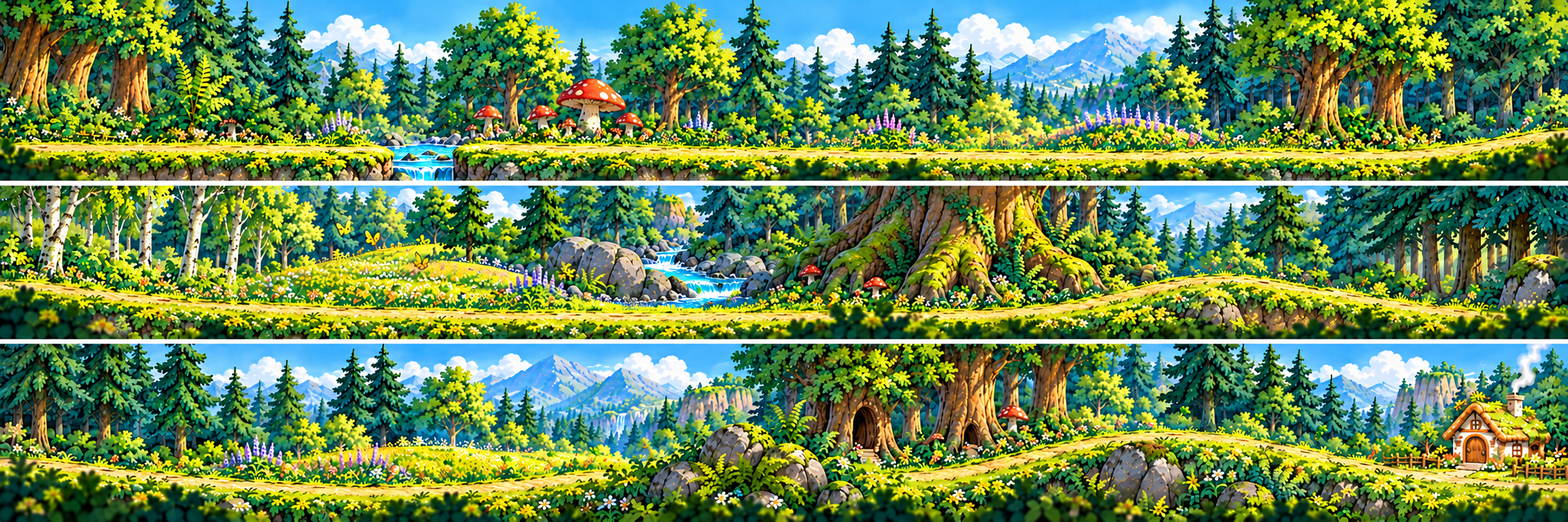
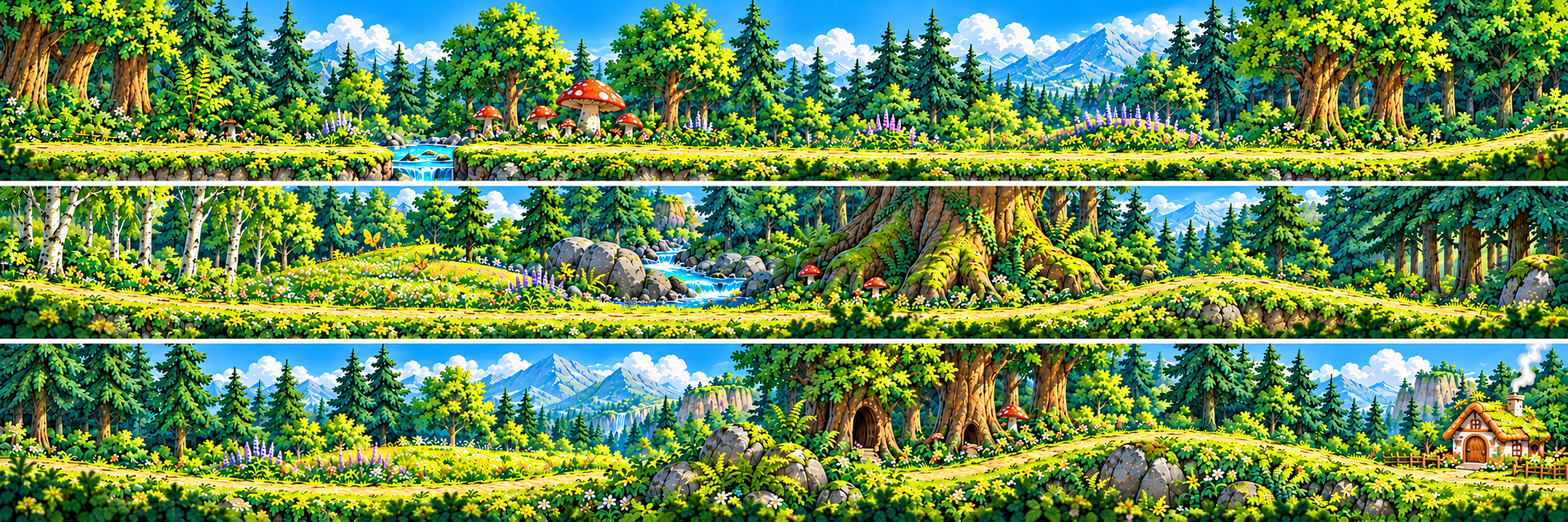
Release Android APK 0.1.12

diff --git a/src/rabbit_home.rs b/src/rabbit_home.rs
@@ -246,7 +246,7 @@ impl RabbitHomeGame {
             cleared: [false; MAX_HAZARDS],
             jump_left: 0.,
             jump_buffer: 0.,
-            jump_forward_speed: 18.,
+            jump_forward_speed: 22.,
             invulnerable: 0.,
             outcome: None,
             walk_clock: 0.,
@@ -260,7 +260,7 @@ impl RabbitHomeGame {
         let stage_bonus = ((self.level.saturating_sub(1) / 2) as f32 * 0.30).min(1.2);
         let ground_speed = match direction {
             -1 => 2.3,
-            1 => 10.5,
+            1 => 17.5,
             _ => 5.5,
         } + stage_bonus;
         // All platforms use the long course's river width and jump distance.
@@ -279,7 +279,7 @@ impl RabbitHomeGame {
                 1.
             };
         let next = (self.position + step).min(GOAL_X);
-        self.walk_clock += dt.min(0.05) * ground_speed.min(6.4) / 6.4;
+        self.walk_clock += dt.min(0.05) * ground_speed / 6.4;
         let mut changed = false;
 
         let jump_height = self.jump_height();
@@ -593,7 +593,7 @@ impl RabbitHomeGame {
         self.cleared = [false; MAX_HAZARDS];
         self.jump_left = 0.;
         self.jump_buffer = 0.;
-        self.jump_forward_speed = 18.;
+        self.jump_forward_speed = 22.;
         self.invulnerable = 0.;
         self.outcome = None;
         self.walk_clock = 0.;
@@ -636,7 +636,7 @@ mod tests {
                 assert_eq!(game.combo, game.hazards().len() as u8);
                 eprintln!("LONG_COURSE level={level} direction={direction} seconds={elapsed:.1}");
                 assert!(game.collected_count() > 90);
-                assert!((140. ..380.).contains(&elapsed), "duration={elapsed}");
+                assert!((85. ..380.).contains(&elapsed), "duration={elapsed}");
                 assert_eq!(game.camera_x(), 2000.);
                 game.next();
                 assert_eq!(game.level, (level + 1).min(10));
@@ -794,7 +794,7 @@ mod tests {
             fast.move_player(1, 1. / 60.);
         }
         assert!((normal.position - 15.5).abs() < 0.01);
-        assert!((fast.position - 20.5).abs() < 0.01);
+        assert!((fast.position - 27.5).abs() < 0.01);
     }
     #[test]
     fn animation_queries_are_disjoint() {

diff --git a/src/app.rs b/src/app.rs
@@ -3628,7 +3628,8 @@ impl Session {
             mode: GameMode::Island,
             help_open: false,
             math_tools: false,
-            library_open: std::env::var_os("MAGNET_START_LIBRARY").is_some(),
+            library_open: std::env::var_os("MAGNET_START_LIBRARY").is_some()
+                || std::env::var_os("MAGNET_START_GAME").is_none(),
             magnet_modes_open: false,
             ball: BallGame::new(),
             tetris: load_tetris(),
@@ -5575,8 +5576,8 @@ fn setup(
         }),
         font: assets.load("fonts/NotoSansCJKsc-Medium.otf"),
         forest_icon: assets.load(image_asset_path("forest_train/approved.png")),
-        descent_icon: assets.load("descent/mine-atlas.png"),
-        gold_icon: assets.load("gold_runner/temple-atlas.png"),
+        descent_icon: assets.load(image_asset_path("descent/mine-atlas.png")),
+        gold_icon: assets.load(image_asset_path("gold_runner/temple-atlas.png")),
         mission_fire_approved: assets.load(image_asset_path("learning/fire-approved-v2.png")),
         mission_fire_steps: [
             assets.load(image_asset_path("learning/fire-step2-v2.png")),
@@ -5770,8 +5771,8 @@ fn setup(
             unlit: true,
             ..default()
         }),
-        snake_pixel: assets.load("snake/pixel-large-approved-v1.png"),
-        snake_gold: assets.load("snake/pixel-gold-apple-v1.png"),
+        snake_pixel: assets.load(image_asset_path("snake/pixel-large-approved-v1.png")),
+        snake_gold: assets.load(image_asset_path("snake/pixel-gold-apple-v1.png")),
         minesweeper_plate: assets.load_with_settings(
             image_asset_path("minesweeper/approved-plate-v1.png"),
             |settings: &mut bevy::image::ImageLoaderSettings| {

diff --git a/src/builder_redesign.rs b/src/builder_redesign.rs
@@ -56,20 +56,20 @@ pub(super) struct BuilderArt {
     scenery: Handle<Image>,
 }
 pub(super) fn load_builder_art(server: &AssetServer) -> BuilderArt {
-    let image = |name: &str| {
+    let image = |path: &str| {
         server.load_with_settings(
-            image_asset_path(&format!("builders/redesign-v1/{name}.png")),
+            image_asset_path(path),
             |s: &mut bevy::image::ImageLoaderSettings| {
                 s.sampler = bevy::image::ImageSampler::linear()
             },
         )
     };
     BuilderArt {
-        cloud: image("cloud-background"),
-        island: image("island-background"),
-        tiles: image("tiles"),
-        frames: image("frames"),
-        scenery: image("scenery"),
+        cloud: image("builders/redesign-v1/cloud-background.png"),
+        island: image("builders/redesign-v1/island-background.png"),
+        tiles: image("builders/redesign-v1/tiles.png"),
+        frames: image("builders/redesign-v1/frames.png"),
+        scenery: image("builders/redesign-v1/scenery.png"),
     }
 }
 pub(super) fn builder_mode(s: &Session) -> bool {

diff --git a/src/builder_puzzle_ui.rs b/src/builder_puzzle_ui.rs
@@ -169,19 +169,19 @@ pub(super) struct PuzzleArt {
     frames: Handle<Image>,
 }
 pub(super) fn load_puzzle_art(server: &AssetServer) -> PuzzleArt {
-    let load = |name: &str| {
+    let load = |path: &str| {
         server.load_with_settings(
-            image_asset_path(&format!("builders/puzzle-v2/{name}.png")),
+            image_asset_path(path),
             |settings: &mut bevy::image::ImageLoaderSettings| {
                 settings.sampler = bevy::image::ImageSampler::linear()
             },
         )
     };
     PuzzleArt {
-        cloud: load("cloud-scene"),
-        island: load("island-scene"),
-        actors: load("actors"),
-        frames: load("frames"),
+        cloud: load("builders/puzzle-v2/cloud-scene.png"),
+        island: load("builders/puzzle-v2/island-scene.png"),
+        actors: load("builders/puzzle-v2/actors.png"),
+        frames: load("builders/puzzle-v2/frames.png"),
     }
 }
 #[derive(Component)]

diff --git a/src/cloud_walk_ui.rs b/src/cloud_walk_ui.rs
@@ -22,9 +22,9 @@ pub(super) struct CloudArt {
 }
 pub(super) fn load_cloud_art(a: &AssetServer) -> CloudArt {
     CloudArt {
-        sky: a.load("builders/redesign-v1/cloud-background.png"),
-        island: a.load("builders/cloud-walk-v3/island.png"),
-        tiles: a.load("builders/cloud-walk-v3/tiles.png"),
+        sky: a.load(image_asset_path("builders/redesign-v1/cloud-background.png")),
+        island: a.load(image_asset_path("builders/cloud-walk-v3/island.png")),
+        tiles: a.load(image_asset_path("builders/cloud-walk-v3/tiles.png")),
     }
 }
 pub(super) fn load_cloud_walk() -> CloudWalk {
@@ -679,6 +679,7 @@ pub(super) fn cloud_walk_input(
     let mut step = key_first;
     if dir != hold.0 {
         *hold = (dir, 0.);
+        step |= dir.is_some();
     } else if dir.is_some() {
         hold.1 += time.delta_secs();
         if hold.1 >= 0.29 {

diff --git a/src/gold_runner.rs b/src/gold_runner.rs
@@ -669,9 +669,9 @@ pub(super) struct GoldArt {
 }
 pub(super) fn setup_gold(mut commands: Commands, assets: Res<AssetServer>) {
     commands.insert_resource(GoldArt {
-        background: assets.load("gold_runner/temple-background.png"),
-        atlas: assets.load("gold_runner/temple-atlas.png"),
-        reference: assets.load("gold_runner/approved.png"),
+        background: assets.load(image_asset_path("gold_runner/temple-background.png")),
+        atlas: assets.load(image_asset_path("gold_runner/temple-atlas.png")),
+        reference: assets.load(image_asset_path("gold_runner/approved.png")),
     });
 }
 

diff --git a/src/descent.rs b/src/descent.rs
@@ -294,8 +294,8 @@ pub(super) struct DescentArt {
 }
 pub(super) fn setup_descent(mut commands: Commands, assets: Res<AssetServer>) {
     commands.insert_resource(DescentArt {
-        background: assets.load("descent/mine-background.png"),
-        sheet: assets.load("descent/mine-atlas.png"),
+        background: assets.load(image_asset_path("descent/mine-background.png")),
+        sheet: assets.load(image_asset_path("descent/mine-atlas.png")),
     });
 }
 

diff --git a/docs/android-release-0.1.12-2026-11-04.md b/docs/android-release-0.1.12-2026-11-04.md
@@ -1,0 +1,11 @@
+# 安卓 0.1.12 发布验证
+
+- 版本 0.1.12，安卓内部版本号 16777484，高于上一版 16777483。
+- 发布包：`output/magnet-island-0.1.12.apk`；59,911,787 字节（57.14 MiB）。
[1 lines of base64/hex data omitted]
+- Release 构建；Manifest `debuggable=false`，ARM64 原生库已剥离调试符号。
+- 仅包含 `arm64-v8a`；最低 API 26、目标 API 35。APK ZIP 完整性、v2/v3 签名及 16 KiB ZIP 对齐验证通过。
+- 本次从干净的 `target/android` 构建；转换 137 张引用 PNG 为 WebP，排除 49 项未引用资源。新包验证成功后，脚本按规则移除了旧版安装包和中间 APK。
+- 未安装或启动游戏；安卓实机画面、触控和性能仍待真机试玩验证。
+
+更新：修复若干 Android 图片资源路径加载，令云桥工程师方向输入立即响应，并提高小兔冲刺与跳跃速度。
